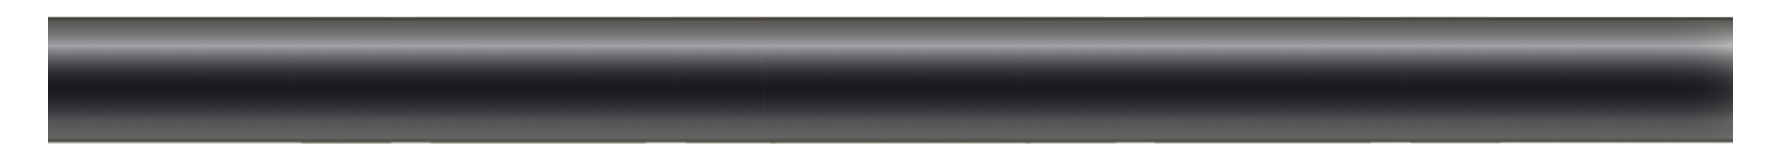
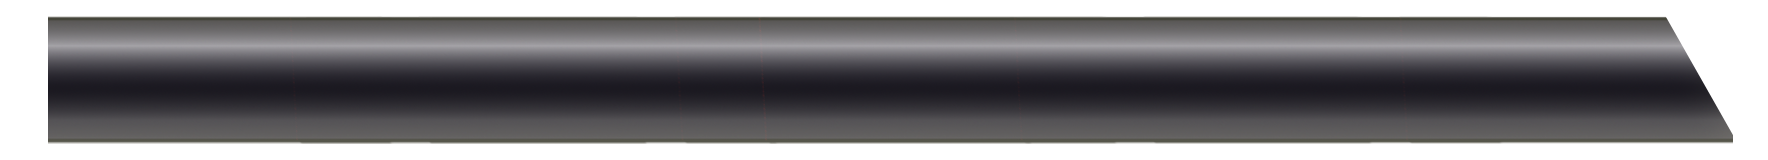
readction progress line; change star_up sound

Changed region(s): [[0.9333, 0.0938, 0.9955, 0.7812]]

diff --git a/GameTanks/game_level.cpp b/GameTanks/game_level.cpp
@@ -141,15 +141,15 @@ GameLevel::GameLevel(int const& id_watch_object) : BaseLevel() {
 	this->AddUiObject(Point_board);
 
 	Progress_life_ = new ProgressLine(sf::Vector2f(20, 50));
-	Progress_life_->SetScale(sf::Vector2f(0.2f, 0.2f));
+	Progress_life_->SetScale(sf::Vector2f(0.18f, 0.18f));
 	Progress_life_->SetStartCoorditateLeft();
 	Progress_life_->SetStartCoorditateBottom();
 	/*Progress_life_->SetTextAlign(0.f);
 	Progress_life_->SetCharacterSize(20);*/
 	this->AddUiObject(Progress_life_);
 
-	Progress_Shot_ = new ProgressLine(sf::Vector2f(20, 100));
-	Progress_Shot_->SetScale(sf::Vector2f(0.2f, 0.2f));
+	Progress_Shot_ = new ProgressLine(sf::Vector2f(20, 73));
+	Progress_Shot_->SetScale(sf::Vector2f(0.13f, 0.13f));
 	Progress_Shot_->SetStartCoorditateLeft();
 	Progress_Shot_->SetStartCoorditateBottom();
 	/*Progress_Shot_->SetTextAlign(0.f);

diff --git a/GameTanks/ready_game_objects.cpp b/GameTanks/ready_game_objects.cpp
@@ -176,8 +176,7 @@ Star::Star(int const& id_object, float const& spawn_x, float const& spawn_y)
 
 	this->AddCollision(new RoundCollision(sf::Vector2f(0, 0), 10));
 	this->SetScale(sf::Vector2f(0.4f, 0.4f));
-	this->AddAudioAction("destructible", "Data/Audio/destructible/star_up.ogg");
-	this->SetBasePoint(30);
+	this->AddAudioAction("bonus", "Data/Audio/bonus/star_up.ogg");
 	ActionLife();
 }
 
